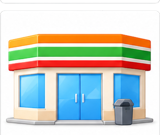
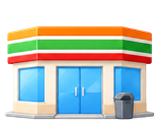
Add files via upload

diff --git a/src/lib/groceries/catalog.ts b/src/lib/groceries/catalog.ts
@@ -204,7 +204,6 @@ const ICONS: [RegExp, string][] = [
   [/\b(energy\s+drink)\b/, "kairos:energy-drink"],
   [/\b(english\s+muffins|english\s+muffin)\b/, "kairos:english-muffins"],
   [/\b(fajitas)\b/, "kairos:fajitas"],
-  [/\b(feminine\s+care)\b/, "kairos:feminine-care"],
   [/\b(feta)\b/, "kairos:feta"],
   [/\b(filet\s+mignon|tenderloin)\b/, "kairos:filet-mignon"],
   [/\b(first\s+aid|first\s+aid\s+kit)\b/, "kairos:first-aid"],
@@ -636,7 +635,6 @@ export const GROCERY_ICON_LIBRARY: IconLibraryEntry[] = [
   { icon: "kairos:energy-drink", keywords: "energy drink" },
   { icon: "kairos:english-muffins", keywords: "english muffins muffin" },
   { icon: "kairos:fajitas", keywords: "fajitas" },
-  { icon: "kairos:feminine-care", keywords: "feminine care" },
   { icon: "kairos:feta", keywords: "feta" },
   { icon: "kairos:filet-mignon", keywords: "filet mignon filet tenderloin" },
   { icon: "kairos:first-aid", keywords: "first aid kit" },

diff --git a/src/app/globals.css b/src/app/globals.css
@@ -230,6 +230,18 @@ html.dark .text-teal-700, html.dark .text-teal-900 { color: #5eead4; }
 html.dark .text-sky-600 { color: #38bdf8; }
 html.dark .text-blue-600 { color: #60a5fa; }
 
+/* Grocery pictures sit on a soft light tile in dark mode. They were drawn
+   for light pages: many keep a pale edge or soft grey shadow from their
+   original white background, which disappears on white and shows on dark.
+   The tile (the light page's own ground colour) hides all of that at once,
+   for every icon present and future. Light mode is untouched; emoji icons
+   are fonts and need no tile. */
+html.dark .grocery-pic {
+  background-color: #e8edf3;
+  border-radius: 24%;
+  padding: 2px;
+}
+
 /* Consistent dropdown caret across every <select> in the app — replaces the
    browser's default arrow (which varies and sits at the very edge) with one
    chevron, inset from the right. Applies to all selects automatically; the

diff --git a/src/components/icons.tsx b/src/components/icons.tsx
@@ -571,7 +571,7 @@ export function GroceryGlyph({
   const src = GLYPH_IMAGES[icon];
   if (src) {
     // eslint-disable-next-line @next/next/no-img-element
-    return <img src={src} alt="" className={`${className} object-contain`} aria-hidden />;
+    return <img src={src} alt="" className={`${className} grocery-pic object-contain`} aria-hidden />;
   }
   if (icon.startsWith("kairos:")) {
     // Bundled colorful PNGs under public/grocery-icons/kairos/<slug>.png.
@@ -580,7 +580,7 @@ export function GroceryGlyph({
       <img
         src={`/grocery-icons/kairos/${icon.slice(7)}.png`}
         alt=""
-        className={`${className} object-contain`}
+        className={`${className} grocery-pic object-contain`}
         aria-hidden
       />
     );

diff --git a/src/lib/version.ts b/src/lib/version.ts
@@ -4,7 +4,7 @@
  * quickest tell for a partial upload: a missing file usually shows up as a
  * missing migration.
  */
-export const APP_VERSION = "0.595.0";
+export const APP_VERSION = "0.596.0";
 
 export const MIGRATIONS = [
   "0_init",
@@ -145,6 +145,14 @@ export const MIGRATIONS = [
 export type Change = { version: string; summary: string[] };
 
 export const CHANGES: Change[] = [
+  {
+    version: "0.596.0",
+    summary: [
+      "Shopping icons sit on a small light tile in dark mode, so they look clean on a dark page.",
+      "Store icons no longer have a white card and border.",
+      "Removed the feminine care icon.",
+    ],
+  },
   {
     version: "0.595.0",
     summary: [

diff --git a/src/lib/groceries/suggestions.ts b/src/lib/groceries/suggestions.ts
@@ -130,7 +130,6 @@ export const GROCERY_SUGGESTIONS: GrocerySuggestion[] = [
   { name: "English muffins", icon: "kairos:english-muffins" },
   { name: "Espresso powder", icon: "kairos:espresso-powder" },
   { name: "Fajitas", icon: "kairos:fajitas" },
-  { name: "Feminine care", icon: "kairos:feminine-care" },
   { name: "Feta", icon: "kairos:feta" },
   { name: "Filet mignon", icon: "kairos:filet-mignon" },
   { name: "First aid supplies", icon: "kairos:first-aid" },

diff --git a/DECISIONS.md b/DECISIONS.md
@@ -1,5 +1,23 @@
 # Decisions
 
+## 2026-10 — Grocery icons on a light tile in dark mode (v0.596.0 / app 0.407.0)
+
+An audit of all 310 grocery pictures on a dark page found ~100 with a pale
+edge or soft grey drop shadow left from their original white backgrounds —
+invisible on white, obvious on dark. Rather than repair each one (and every
+future batch), every grocery *picture* now sits on a soft light tile in dark
+mode: the light page's ground colour (#e8edf3), 24% rounded corners, 2px
+inset. Web: `.grocery-pic` on `GroceryGlyph`'s <img>, styled under
+`html.dark` in globals.css. App: `GroceryGlyph` draws the same tile when
+`KairosThemeState.dark`. Light mode and emoji icons are unchanged.
+
+The 12 store icons lost their leftover white card and thin grey frame
+(frame stripped from the outer 4px; the card flooded away on the four that
+still had one; stray line pieces removed). `feminine-care` is gone: PNG,
+matcher rule, picker entry, suggestion and app map entry. Still to
+regenerate: `air-freshener` (part of its white can was erased with the
+background) and the legacy `ic:sorbet` square.
+
 ## 2026-10 — Grocery icon batch: 49 baking, produce, meat and bakery icons (v0.595.0 / app 0.406.0)
 
 Sliced from one generated sheet by detected rows (icon band, caption band)

diff --git a/ARCHITECTURE.md b/ARCHITECTURE.md
@@ -156,6 +156,7 @@ production:
 | Which kinds are yearly occasions, and which names aren't remembered | `isOccasion` / `isOccasionName` in `src/lib/calendar/occasions.ts` |
 | When a shopping trip ends on its own (the day after it started) | `endStaleTrips` in `src/lib/groceries-core.ts`, run before every trip read/write |
 | How pale status tints (`bg-*-50`, `text-*-700`…) look in dark mode | the `html.dark` remap block in `src/app/globals.css` |
+| How grocery pictures look in dark mode (a light tile) | `.grocery-pic` in `src/app/globals.css`; the app's `GroceryGlyph` draws the same tile |
 | Body map figure colours (web and app) | `--color-figure*` in `src/app/globals.css`; the app's `figureColors(dark)` holds the same values |
 | A movement's Best weight / Best reps / Latest | `src/lib/queries/movement-stats.ts` |
 | Schoolwork completion marks the plan unit done | `syncPlanUnitDone` in `src/lib/school/plan-unit-sync.ts` |

diff --git a/ROADMAP.md b/ROADMAP.md
@@ -1672,6 +1672,6 @@ the fairness engine above as the quiet fuel. No one is ranked against anyone.
 
 ## Known-good baselines (end of this run)
 
-- Web APP_VERSION 0.595.0 (migrations through 127_marine_corps_birthday).
-- App versionName 0.406.0 / versionCode 466 / CLIENT_BUILD 466.
+- Web APP_VERSION 0.596.0 (migrations through 127_marine_corps_birthday).
+- App versionName 0.407.0 / versionCode 467 / CLIENT_BUILD 467.
 - Collector: deployed and running; Xbox totals come from real game sessions.
